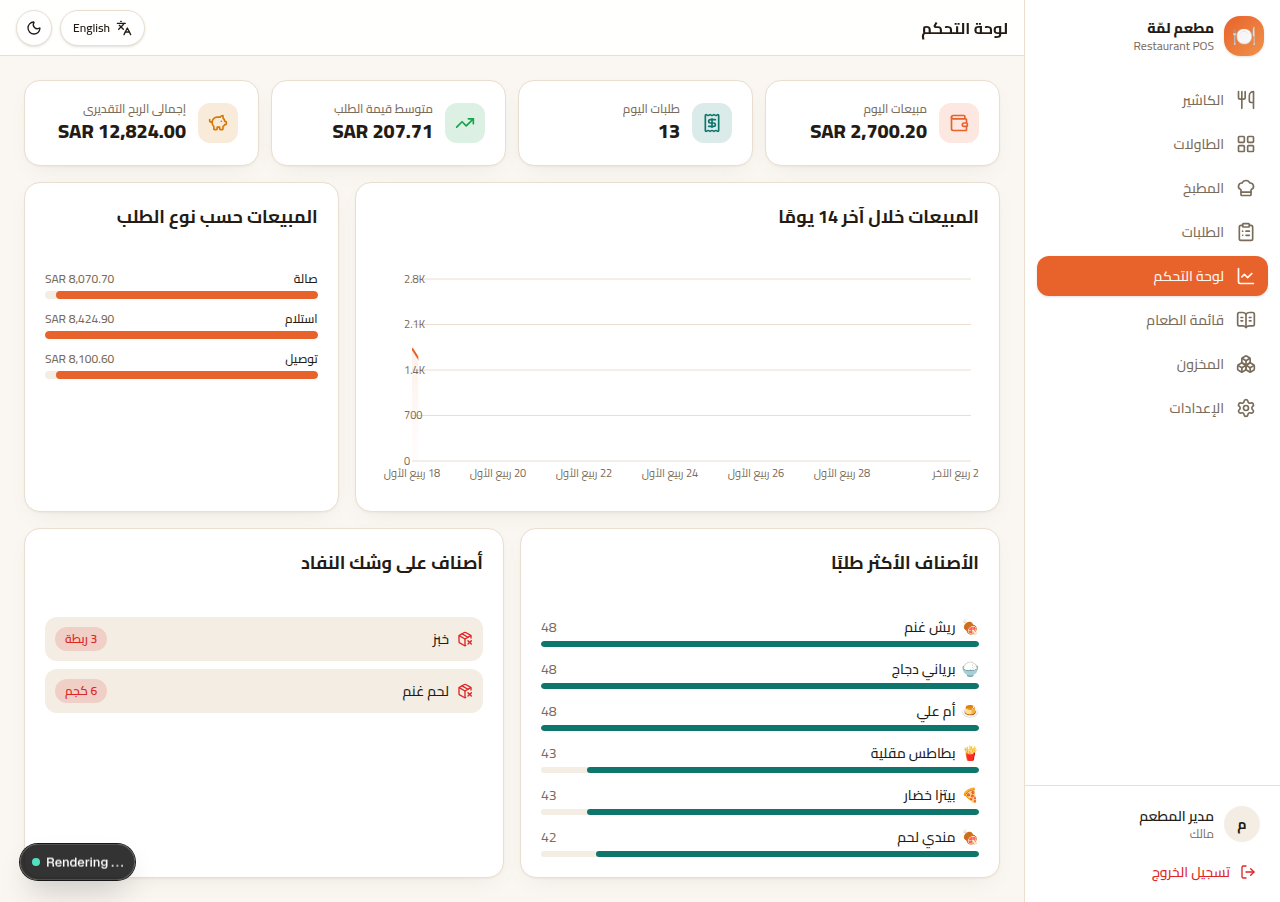
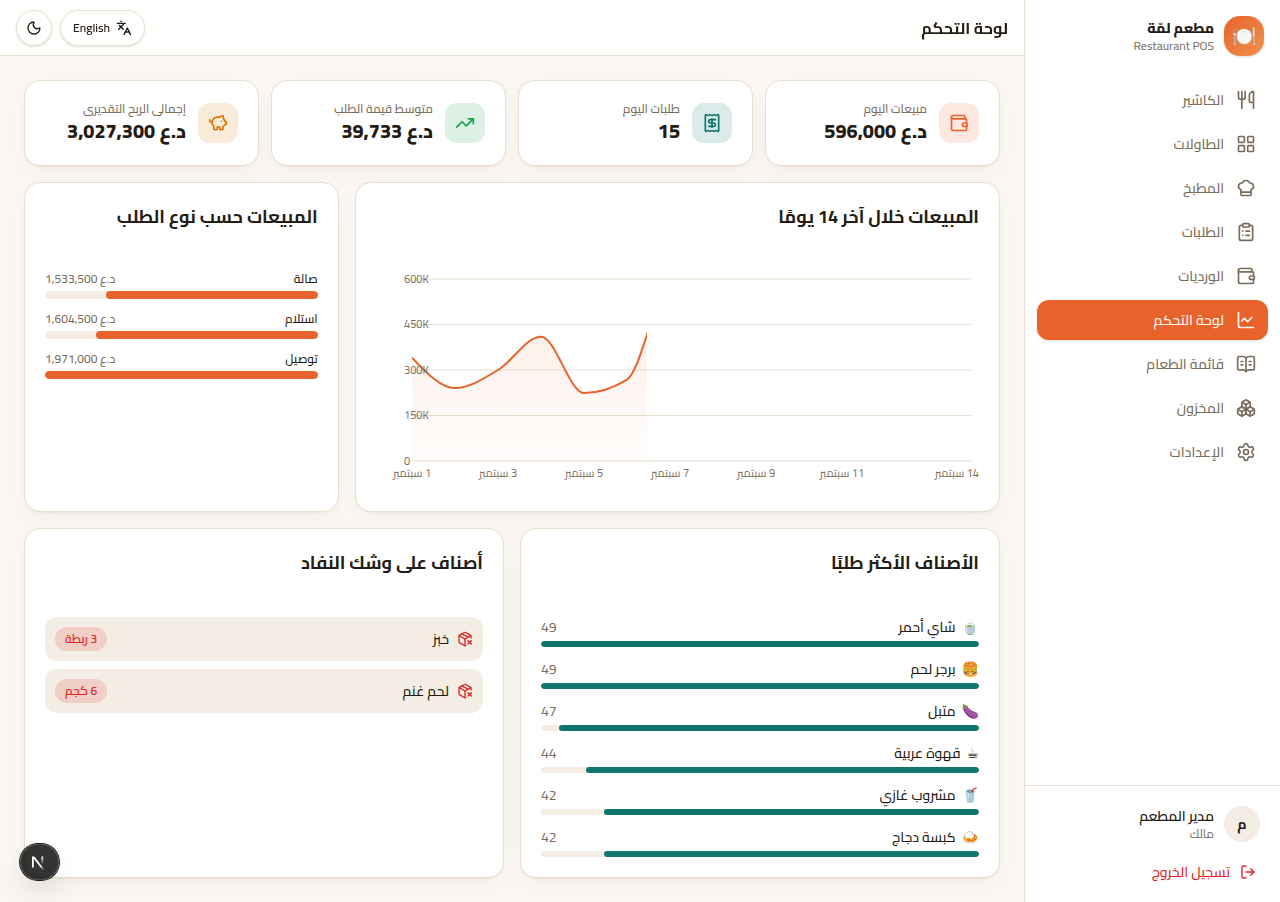
Focus the product on Iraqi restaurants: IQD by default everywhere
- New restaurants (via /signup) and the schema default now use IQD, with
  a 0% tax rate default instead of the Saudi-market 15%. Simplified the
  signup form to drop the currency picker entirely (removed for a
  single-currency product) and note that all prices are in Iraqi Dinar.
- Currency formatting is now currency-aware: IQD shows as whole dinars
  (no decimals, matching how every till in Iraq actually prices things)
  with the "د.ع" / "IQD" symbol, via a small currency-metadata table that
  still supports the other Gulf/regional currencies for Settings.
- Rescaled the seed data's menu prices, modifier price deltas, and the
  demo restaurant's address/phone to realistic Iraqi Dinar amounts and an
  Iraqi context (Baghdad address, 07x phone format).
- Fixed a latent seed-script bug: Shift rows (added in the previous
  commit) weren't cleared before Users, so re-seeding on a database with
  an existing open shift failed on a foreign-key constraint.
- Refreshed the README screenshots and copy for the IQD/Iraq focus.

Claude-Session: https://claude.ai/code/session_014zdqnWx5g8CBrdsnrkquBk

diff --git a/prisma/seed.ts b/prisma/seed.ts
@@ -12,6 +12,7 @@ async function main() {
   console.log("🌱 Seeding database...");
 
   // Clean slate for repeatable seeding in dev.
+  await db.shift.deleteMany();
   await db.payment.deleteMany();
   await db.orderItemModifier.deleteMany();
   await db.orderItem.deleteMany();
@@ -30,10 +31,10 @@ async function main() {
     data: {
       name: "مطعم لمّة",
       logoEmoji: "🍽",
-      currency: "SAR",
-      taxRate: 15,
-      address: "شارع الملك فهد، الرياض",
-      phone: "0500000000",
+      currency: "IQD",
+      taxRate: 0,
+      address: "شارع الرشيد، بغداد",
+      phone: "07901234567",
     },
   });
 
@@ -98,8 +99,8 @@ async function main() {
       modifiers: {
         create: [
           { nameAr: "صغير", nameEn: "Small", priceDelta: 0 },
-          { nameAr: "وسط", nameEn: "Medium", priceDelta: 5 },
-          { nameAr: "كبير", nameEn: "Large", priceDelta: 10 },
+          { nameAr: "وسط", nameEn: "Medium", priceDelta: 1000 },
+          { nameAr: "كبير", nameEn: "Large", priceDelta: 2000 },
         ],
       },
     },
@@ -114,8 +115,8 @@ async function main() {
       restaurantId: restaurant.id,
       modifiers: {
         create: [
-          { nameAr: "جبنة إضافية", nameEn: "Extra Cheese", priceDelta: 4 },
-          { nameAr: "صوص حار", nameEn: "Spicy Sauce", priceDelta: 2 },
+          { nameAr: "جبنة إضافية", nameEn: "Extra Cheese", priceDelta: 1500 },
+          { nameAr: "صوص حار", nameEn: "Spicy Sauce", priceDelta: 500 },
           { nameAr: "بدون بصل", nameEn: "No Onion", priceDelta: 0 },
         ],
       },
@@ -131,27 +132,27 @@ async function main() {
     category: string;
     modifierGroups?: string[];
   }[] = [
-    { nameAr: "حمص", nameEn: "Hummus", price: 18, cost: 6, emoji: "🥙", category: "Appetizers" },
-    { nameAr: "متبل", nameEn: "Mutabbal", price: 18, cost: 6, emoji: "🍆", category: "Appetizers" },
-    { nameAr: "سلطة فتوش", nameEn: "Fattoush Salad", price: 22, cost: 7, emoji: "🥗", category: "Appetizers" },
-    { nameAr: "بطاطس مقلية", nameEn: "French Fries", price: 14, cost: 4, emoji: "🍟", category: "Appetizers", modifierGroups: ["Size"] },
-    { nameAr: "كبسة دجاج", nameEn: "Chicken Kabsa", price: 42, cost: 18, emoji: "🍛", category: "Main Dishes" },
-    { nameAr: "مندي لحم", nameEn: "Lamb Mandi", price: 58, cost: 26, emoji: "🍖", category: "Main Dishes" },
-    { nameAr: "برياني دجاج", nameEn: "Chicken Biryani", price: 38, cost: 16, emoji: "🍚", category: "Main Dishes" },
-    { nameAr: "برجر لحم", nameEn: "Beef Burger", price: 32, cost: 14, emoji: "🍔", category: "Main Dishes", modifierGroups: ["Size", "Extras"] },
-    { nameAr: "بيتزا خضار", nameEn: "Veggie Pizza", price: 36, cost: 15, emoji: "🍕", category: "Main Dishes", modifierGroups: ["Size", "Extras"] },
-    { nameAr: "شيش طاووق", nameEn: "Shish Tawook", price: 36, cost: 15, emoji: "🍢", category: "Grills" },
-    { nameAr: "كباب لحم", nameEn: "Kebab", price: 44, cost: 20, emoji: "🍢", category: "Grills" },
-    { nameAr: "ريش غنم", nameEn: "Lamb Chops", price: 68, cost: 32, emoji: "🍖", category: "Grills" },
-    { nameAr: "دجاج مشوي", nameEn: "Grilled Chicken", price: 40, cost: 17, emoji: "🍗", category: "Grills" },
-    { nameAr: "عصير برتقال", nameEn: "Orange Juice", price: 12, cost: 3, emoji: "🍊", category: "Drinks" },
-    { nameAr: "ليموناضة نعناع", nameEn: "Mint Lemonade", price: 14, cost: 3, emoji: "🍋", category: "Drinks" },
-    { nameAr: "شاي أحمر", nameEn: "Black Tea", price: 8, cost: 1, emoji: "🍵", category: "Drinks" },
-    { nameAr: "قهوة عربية", nameEn: "Arabic Coffee", price: 10, cost: 2, emoji: "☕", category: "Drinks" },
-    { nameAr: "مشروب غازي", nameEn: "Soft Drink", price: 8, cost: 2, emoji: "🥤", category: "Drinks" },
-    { nameAr: "كنافة", nameEn: "Kunafa", price: 22, cost: 8, emoji: "🍰", category: "Desserts" },
-    { nameAr: "أم علي", nameEn: "Om Ali", price: 20, cost: 7, emoji: "🍮", category: "Desserts" },
-    { nameAr: "بسبوسة", nameEn: "Basbousa", price: 16, cost: 5, emoji: "🧁", category: "Desserts" },
+    { nameAr: "حمص", nameEn: "Hummus", price: 4000, cost: 1500, emoji: "🥙", category: "Appetizers" },
+    { nameAr: "متبل", nameEn: "Mutabbal", price: 4000, cost: 1500, emoji: "🍆", category: "Appetizers" },
+    { nameAr: "سلطة فتوش", nameEn: "Fattoush Salad", price: 5000, cost: 2000, emoji: "🥗", category: "Appetizers" },
+    { nameAr: "بطاطس مقلية", nameEn: "French Fries", price: 3000, cost: 1000, emoji: "🍟", category: "Appetizers", modifierGroups: ["Size"] },
+    { nameAr: "كبسة دجاج", nameEn: "Chicken Kabsa", price: 12000, cost: 5000, emoji: "🍛", category: "Main Dishes" },
+    { nameAr: "مندي لحم", nameEn: "Lamb Mandi", price: 20000, cost: 9000, emoji: "🍖", category: "Main Dishes" },
+    { nameAr: "برياني دجاج", nameEn: "Chicken Biryani", price: 10000, cost: 4000, emoji: "🍚", category: "Main Dishes" },
+    { nameAr: "برجر لحم", nameEn: "Beef Burger", price: 8000, cost: 3500, emoji: "🍔", category: "Main Dishes", modifierGroups: ["Size", "Extras"] },
+    { nameAr: "بيتزا خضار", nameEn: "Veggie Pizza", price: 9000, cost: 3500, emoji: "🍕", category: "Main Dishes", modifierGroups: ["Size", "Extras"] },
+    { nameAr: "شيش طاووق", nameEn: "Shish Tawook", price: 9000, cost: 3500, emoji: "🍢", category: "Grills" },
+    { nameAr: "كباب لحم", nameEn: "Kebab", price: 11000, cost: 5000, emoji: "🍢", category: "Grills" },
+    { nameAr: "ريش غنم", nameEn: "Lamb Chops", price: 18000, cost: 8000, emoji: "🍖", category: "Grills" },
+    { nameAr: "دجاج مشوي", nameEn: "Grilled Chicken", price: 10000, cost: 4200, emoji: "🍗", category: "Grills" },
+    { nameAr: "عصير برتقال", nameEn: "Orange Juice", price: 2000, cost: 500, emoji: "🍊", category: "Drinks" },
+    { nameAr: "ليموناضة نعناع", nameEn: "Mint Lemonade", price: 2500, cost: 600, emoji: "🍋", category: "Drinks" },
+    { nameAr: "شاي أحمر", nameEn: "Black Tea", price: 1000, cost: 200, emoji: "🍵", category: "Drinks" },
+    { nameAr: "قهوة عربية", nameEn: "Arabic Coffee", price: 1500, cost: 400, emoji: "☕", category: "Drinks" },
+    { nameAr: "مشروب غازي", nameEn: "Soft Drink", price: 1000, cost: 400, emoji: "🥤", category: "Drinks" },
+    { nameAr: "كنافة", nameEn: "Kunafa", price: 5000, cost: 2000, emoji: "🍰", category: "Desserts" },
+    { nameAr: "أم علي", nameEn: "Om Ali", price: 4500, cost: 1800, emoji: "🍮", category: "Desserts" },
+    { nameAr: "بسبوسة", nameEn: "Basbousa", price: 3500, cost: 1200, emoji: "🧁", category: "Desserts" },
   ];
 
   const modifierGroupsMap: Record<string, string> = {

diff --git a/src/app/signup/signup-form.tsx b/src/app/signup/signup-form.tsx
@@ -3,24 +3,9 @@
 import { useActionState } from "react";
 import { useFormStatus } from "react-dom";
 import { signupAction, type SignupState } from "@/lib/actions/auth-actions";
-import { SIGNUP_CURRENCIES } from "@/lib/currencies";
 import { Button } from "@/components/ui/button";
-import { Field, Input, Select } from "@/components/ui/input";
-import type { Dictionary, Locale } from "@/lib/i18n/types";
-
-const CURRENCY_LABELS: Record<(typeof SIGNUP_CURRENCIES)[number], { ar: string; en: string }> = {
-  SAR: { ar: "﷼ ريال سعودي", en: "SAR — Saudi Riyal" },
-  AED: { ar: "درهم إماراتي", en: "AED — UAE Dirham" },
-  KWD: { ar: "دينار كويتي", en: "KWD — Kuwaiti Dinar" },
-  QAR: { ar: "ريال قطري", en: "QAR — Qatari Riyal" },
-  BHD: { ar: "دينار بحريني", en: "BHD — Bahraini Dinar" },
-  OMR: { ar: "ريال عماني", en: "OMR — Omani Rial" },
-  EGP: { ar: "جنيه مصري", en: "EGP — Egyptian Pound" },
-  JOD: { ar: "دينار أردني", en: "JOD — Jordanian Dinar" },
-  IQD: { ar: "دينار عراقي", en: "IQD — Iraqi Dinar" },
-  USD: { ar: "دولار أمريكي", en: "USD — US Dollar" },
-  EUR: { ar: "يورو", en: "EUR — Euro" },
-};
+import { Field, Input } from "@/components/ui/input";
+import type { Dictionary } from "@/lib/i18n/types";
 
 function SubmitButton({ dict }: { dict: Dictionary }) {
   const { pending } = useFormStatus();
@@ -31,7 +16,7 @@ function SubmitButton({ dict }: { dict: Dictionary }) {
   );
 }
 
-export function SignupForm({ dict, locale }: { dict: Dictionary; locale: Locale }) {
+export function SignupForm({ dict }: { dict: Dictionary }) {
   const [state, formAction] = useActionState<SignupState, FormData>(signupAction, {});
 
   return (
@@ -48,15 +33,7 @@ export function SignupForm({ dict, locale }: { dict: Dictionary; locale: Locale 
       <Field label={dict.signup.password} htmlFor="password">
         <Input id="password" name="password" type="password" required minLength={6} autoComplete="new-password" placeholder="••••••••" />
       </Field>
-      <Field label={dict.signup.currency} htmlFor="currency">
-        <Select id="currency" name="currency" defaultValue="SAR" required>
-          {SIGNUP_CURRENCIES.map((code) => (
-            <option key={code} value={code}>
-              {CURRENCY_LABELS[code][locale]}
-            </option>
-          ))}
-        </Select>
-      </Field>
+      <p className="-mt-1 text-xs text-text-muted">{dict.signup.currencyNote}</p>
       {state.error && (
         <p className="text-sm font-medium text-danger">
           {state.error === "email_taken" ? dict.signup.emailTaken : dict.signup.invalid}

diff --git a/src/lib/currencies.ts b/src/lib/currencies.ts
@@ -1,4 +1,26 @@
-// Plain data — safe to import from both server actions and client
-// components. (A "use server" module can only export functions; a client
-// component importing a plain constant from one gets a broken stub.)
-export const SIGNUP_CURRENCIES = ["SAR", "AED", "KWD", "QAR", "BHD", "OMR", "EGP", "JOD", "IQD", "USD", "EUR"] as const;
+// Currency display metadata: the localized symbol/abbreviation to show, and
+// how many decimal places actually get used in practice. Storage is always
+// the plain ISO code (Restaurant.currency, e.g. "IQD") — this only affects
+// formatting. An unknown code falls back to itself with 2 decimals.
+export type CurrencyMeta = { ar: string; en: string; decimals: number };
+
+export const CURRENCY_META: Record<string, CurrencyMeta> = {
+  // Iraqi Dinar is this product's primary currency — prices are shown as
+  // whole dinars, matching how every till and menu in Iraq actually prices
+  // things (nobody prices or tenders fils).
+  IQD: { ar: "د.ع", en: "IQD", decimals: 0 },
+  SAR: { ar: "ر.س", en: "SAR", decimals: 2 },
+  AED: { ar: "د.إ", en: "AED", decimals: 2 },
+  KWD: { ar: "د.ك", en: "KWD", decimals: 3 },
+  QAR: { ar: "ر.ق", en: "QAR", decimals: 2 },
+  BHD: { ar: "د.ب", en: "BHD", decimals: 3 },
+  OMR: { ar: "ر.ع", en: "OMR", decimals: 3 },
+  EGP: { ar: "ج.م", en: "EGP", decimals: 2 },
+  JOD: { ar: "د.أ", en: "JOD", decimals: 3 },
+  USD: { ar: "$", en: "USD", decimals: 2 },
+  EUR: { ar: "€", en: "EUR", decimals: 2 },
+};
+
+export function getCurrencyMeta(code: string): CurrencyMeta {
+  return CURRENCY_META[code] ?? { ar: code, en: code, decimals: 2 };
+}

diff --git a/src/lib/format.ts b/src/lib/format.ts
@@ -1,4 +1,5 @@
 import type { Locale } from "./i18n/types";
+import { getCurrencyMeta } from "./currencies";
 
 // Force the Gregorian calendar + Latin digits for Arabic: ar-SA defaults to the
 // Hijri calendar and Arabic-Indic digits in ICU, which would show confusing
@@ -9,14 +10,15 @@ const INTL_LOCALE: Record<Locale, string> = {
 };
 
 export function formatMoney(amount: number, currency: string, locale: Locale): string {
+  const meta = getCurrencyMeta(currency);
   const formatted = new Intl.NumberFormat(INTL_LOCALE[locale], {
-    minimumFractionDigits: 2,
-    maximumFractionDigits: 2,
+    minimumFractionDigits: meta.decimals,
+    maximumFractionDigits: meta.decimals,
   }).format(amount);
-  // Currency code before the amount in both locales — keeps the two LTR runs
-  // (code, digits) in one predictable order instead of relying on bidi
-  // reordering to place a trailing code "naturally" in an RTL sentence.
-  return currency ? `${currency} ${formatted}` : formatted;
+  // Symbol before the amount in both locales — keeps the two LTR runs
+  // (symbol, digits) in one predictable order instead of relying on bidi
+  // reordering to place a trailing symbol "naturally" in an RTL sentence.
+  return currency ? `${meta[locale]} ${formatted}` : formatted;
 }
 
 export function formatNumber(value: number, locale: Locale): string {

diff --git a/src/lib/actions/auth-actions.ts b/src/lib/actions/auth-actions.ts
@@ -6,7 +6,6 @@ import { redirect } from "next/navigation";
 import { db } from "@/lib/db";
 import { createSessionCookie, clearSessionCookie } from "@/lib/auth";
 import { getLocale } from "@/lib/preferences";
-import { SIGNUP_CURRENCIES } from "@/lib/currencies";
 import type { Role } from "@/generated/prisma/enums";
 
 const loginSchema = z.object({
@@ -65,7 +64,6 @@ const signupSchema = z.object({
   ownerName: z.string().min(1).max(120),
   email: z.email(),
   password: z.string().min(6).max(100),
-  currency: z.enum(SIGNUP_CURRENCIES),
 });
 
 export type SignupState = { error?: string };
@@ -76,7 +74,6 @@ export async function signupAction(_prevState: SignupState, formData: FormData):
     ownerName: formData.get("ownerName"),
     email: formData.get("email"),
     password: formData.get("password"),
-    currency: formData.get("currency"),
   });
   if (!parsed.success) {
     return { error: "invalid" };
@@ -96,7 +93,7 @@ export async function signupAction(_prevState: SignupState, formData: FormData):
     const restaurant = await tx.restaurant.create({
       data: {
         name: parsed.data.restaurantName,
-        currency: parsed.data.currency,
+        currency: "IQD",
       },
     });
 

diff --git a/src/lib/i18n/dictionaries/ar.ts b/src/lib/i18n/dictionaries/ar.ts
@@ -66,7 +66,7 @@ const ar = {
     ownerName: "اسمك",
     email: "البريد الإلكتروني",
     password: "كلمة المرور",
-    currency: "العملة",
+    currencyNote: "جميع الأسعار بالدينار العراقي (IQD).",
     submit: "إنشاء الحساب",
     submitting: "جارٍ الإنشاء...",
     emailTaken: "هذا البريد الإلكتروني مستخدم بالفعل",

diff --git a/src/app/signup/page.tsx b/src/app/signup/page.tsx
@@ -34,7 +34,7 @@ export default async function SignupPage() {
           <h2 className="text-xl font-bold">{dict.signup.title}</h2>
           <p className="mt-1 text-sm text-text-muted sm:hidden">{dict.signup.subtitle}</p>
 
-          <SignupForm dict={dict} locale={locale} />
+          <SignupForm dict={dict} />
 
           <p className="mt-4 text-center text-sm text-text-muted">
             {dict.signup.haveAccount}{" "}

diff --git a/src/lib/i18n/dictionaries/en.ts b/src/lib/i18n/dictionaries/en.ts
@@ -68,7 +68,7 @@ const en = {
     ownerName: "Your name",
     email: "Email",
     password: "Password",
-    currency: "Currency",
+    currencyNote: "All prices are shown in Iraqi Dinar (IQD).",
     submit: "Create account",
     submitting: "Creating...",
     emailTaken: "This email is already in use",

diff --git a/README.md b/README.md
@@ -1,16 +1,19 @@
-# 🍽 لمّة — نظام كاشير المطاعم
+# 🍽 لمّة — نظام كاشير المطاعم العراقية
 
-نظام **كاشير (POS) سهل الاستخدام ومتطور** مصمم خصيصًا للمطاعم: نقطة بيع سريعة،
-خريطة طاولات مباشرة، شاشة مطبخ (KDS)، إدارة قائمة الطعام، تقارير مبيعات
-لحظية، وإدارة مستخدمين وصلاحيات — كل ذلك بواجهة عربية/إنجليزية (RTL/LTR)
-مميزة، متجاوبة بالكامل مع كل المقاسات، وقابلة للتوسّع لاحقًا لتصبح **منتج
-SaaS** يُشترك فيه عدة مطاعم.
+نظام **كاشير (POS) سهل الاستخدام ومتطور** مصمم خصيصًا **للمطاعم العراقية**:
+كل الأسعار بالدينار العراقي (IQD) من أول يوم، نقطة بيع سريعة، خريطة طاولات
+مباشرة، شاشة مطبخ (KDS)، إدارة قائمة الطعام، تقارير مبيعات لحظية، ووردية
+كاشير بمطابقة نقدية — كل ذلك بواجهة عربية/إنجليزية (RTL/LTR) مميزة، متجاوبة
+بالكامل، وأي مطعم يقدر يسجّل نفسه ويبدأ البيع خلال دقائق (`/signup`)، وقابلة
+للتوسّع لاحقًا لتصبح **منتج SaaS** يُشترك فيه عدة مطاعم.
 
-> An easy, advanced, and genuinely useful restaurant POS system — cashier,
-> live table map, kitchen display, menu management, real-time sales
-> dashboard, and role-based staff accounts, in a bilingual (Arabic/English,
-> RTL/LTR) responsive UI, architected so it can grow into a multi-tenant
-> SaaS product down the line.
+> An easy, advanced, and genuinely useful restaurant POS system built for
+> **Iraqi restaurants** — prices in Iraqi Dinar (IQD) from day one, plus
+> cashier, live table map, kitchen display, menu management, real-time sales
+> dashboard, cash-drawer shift reconciliation, and role-based staff
+> accounts, in a bilingual (Arabic/English, RTL/LTR) responsive UI. Any
+> restaurant can sign itself up and start selling in minutes, and it's
+> architected so it can grow into a multi-tenant SaaS product down the line.
 
 <p align="center">
   <img src="docs/screenshots/login.png" width="49%" alt="Login screen" />
@@ -21,8 +24,11 @@ SaaS** يُشترك فيه عدة مطاعم.
   <img src="docs/screenshots/dashboard-dark-en.png" width="49%" alt="Dashboard in dark mode / English" />
 </p>
 <p align="center">
-  <img src="docs/screenshots/pos-mobile.png" width="30%" alt="POS on mobile" />
+  <img src="docs/screenshots/signup.png" width="49%" alt="Restaurant signup page" />
   <img src="docs/screenshots/shift-close.png" width="49%" alt="Closing a cash shift with automatic over/short detection" />
+</p>
+<p align="center">
+  <img src="docs/screenshots/pos-mobile.png" width="30%" alt="POS on mobile" />
 </p>
 
 ## ✨ Features
@@ -122,9 +128,10 @@ production build.
 This isn't just the demo data — anyone can create their own restaurant:
 
 1. **`/signup`** — a restaurant owner enters their restaurant's name, their
-   own name, an email, a password, and picks a currency. That one submission
-   creates a `Restaurant` row, an `OWNER` `User` under it, six starter tables
-   so the floor plan isn't empty, and signs them straight in.
+   own name, an email, and a password. That one submission creates a
+   `Restaurant` row (currency defaults to IQD, tax rate to 0%), an `OWNER`
+   `User` under it, six starter tables so the floor plan isn't empty, and
+   signs them straight in.
 2. They land on **`/menu`** and add their own dishes and prices (deliberately
    *not* pre-filled with sample food — a real restaurant's menu should be
    theirs).
